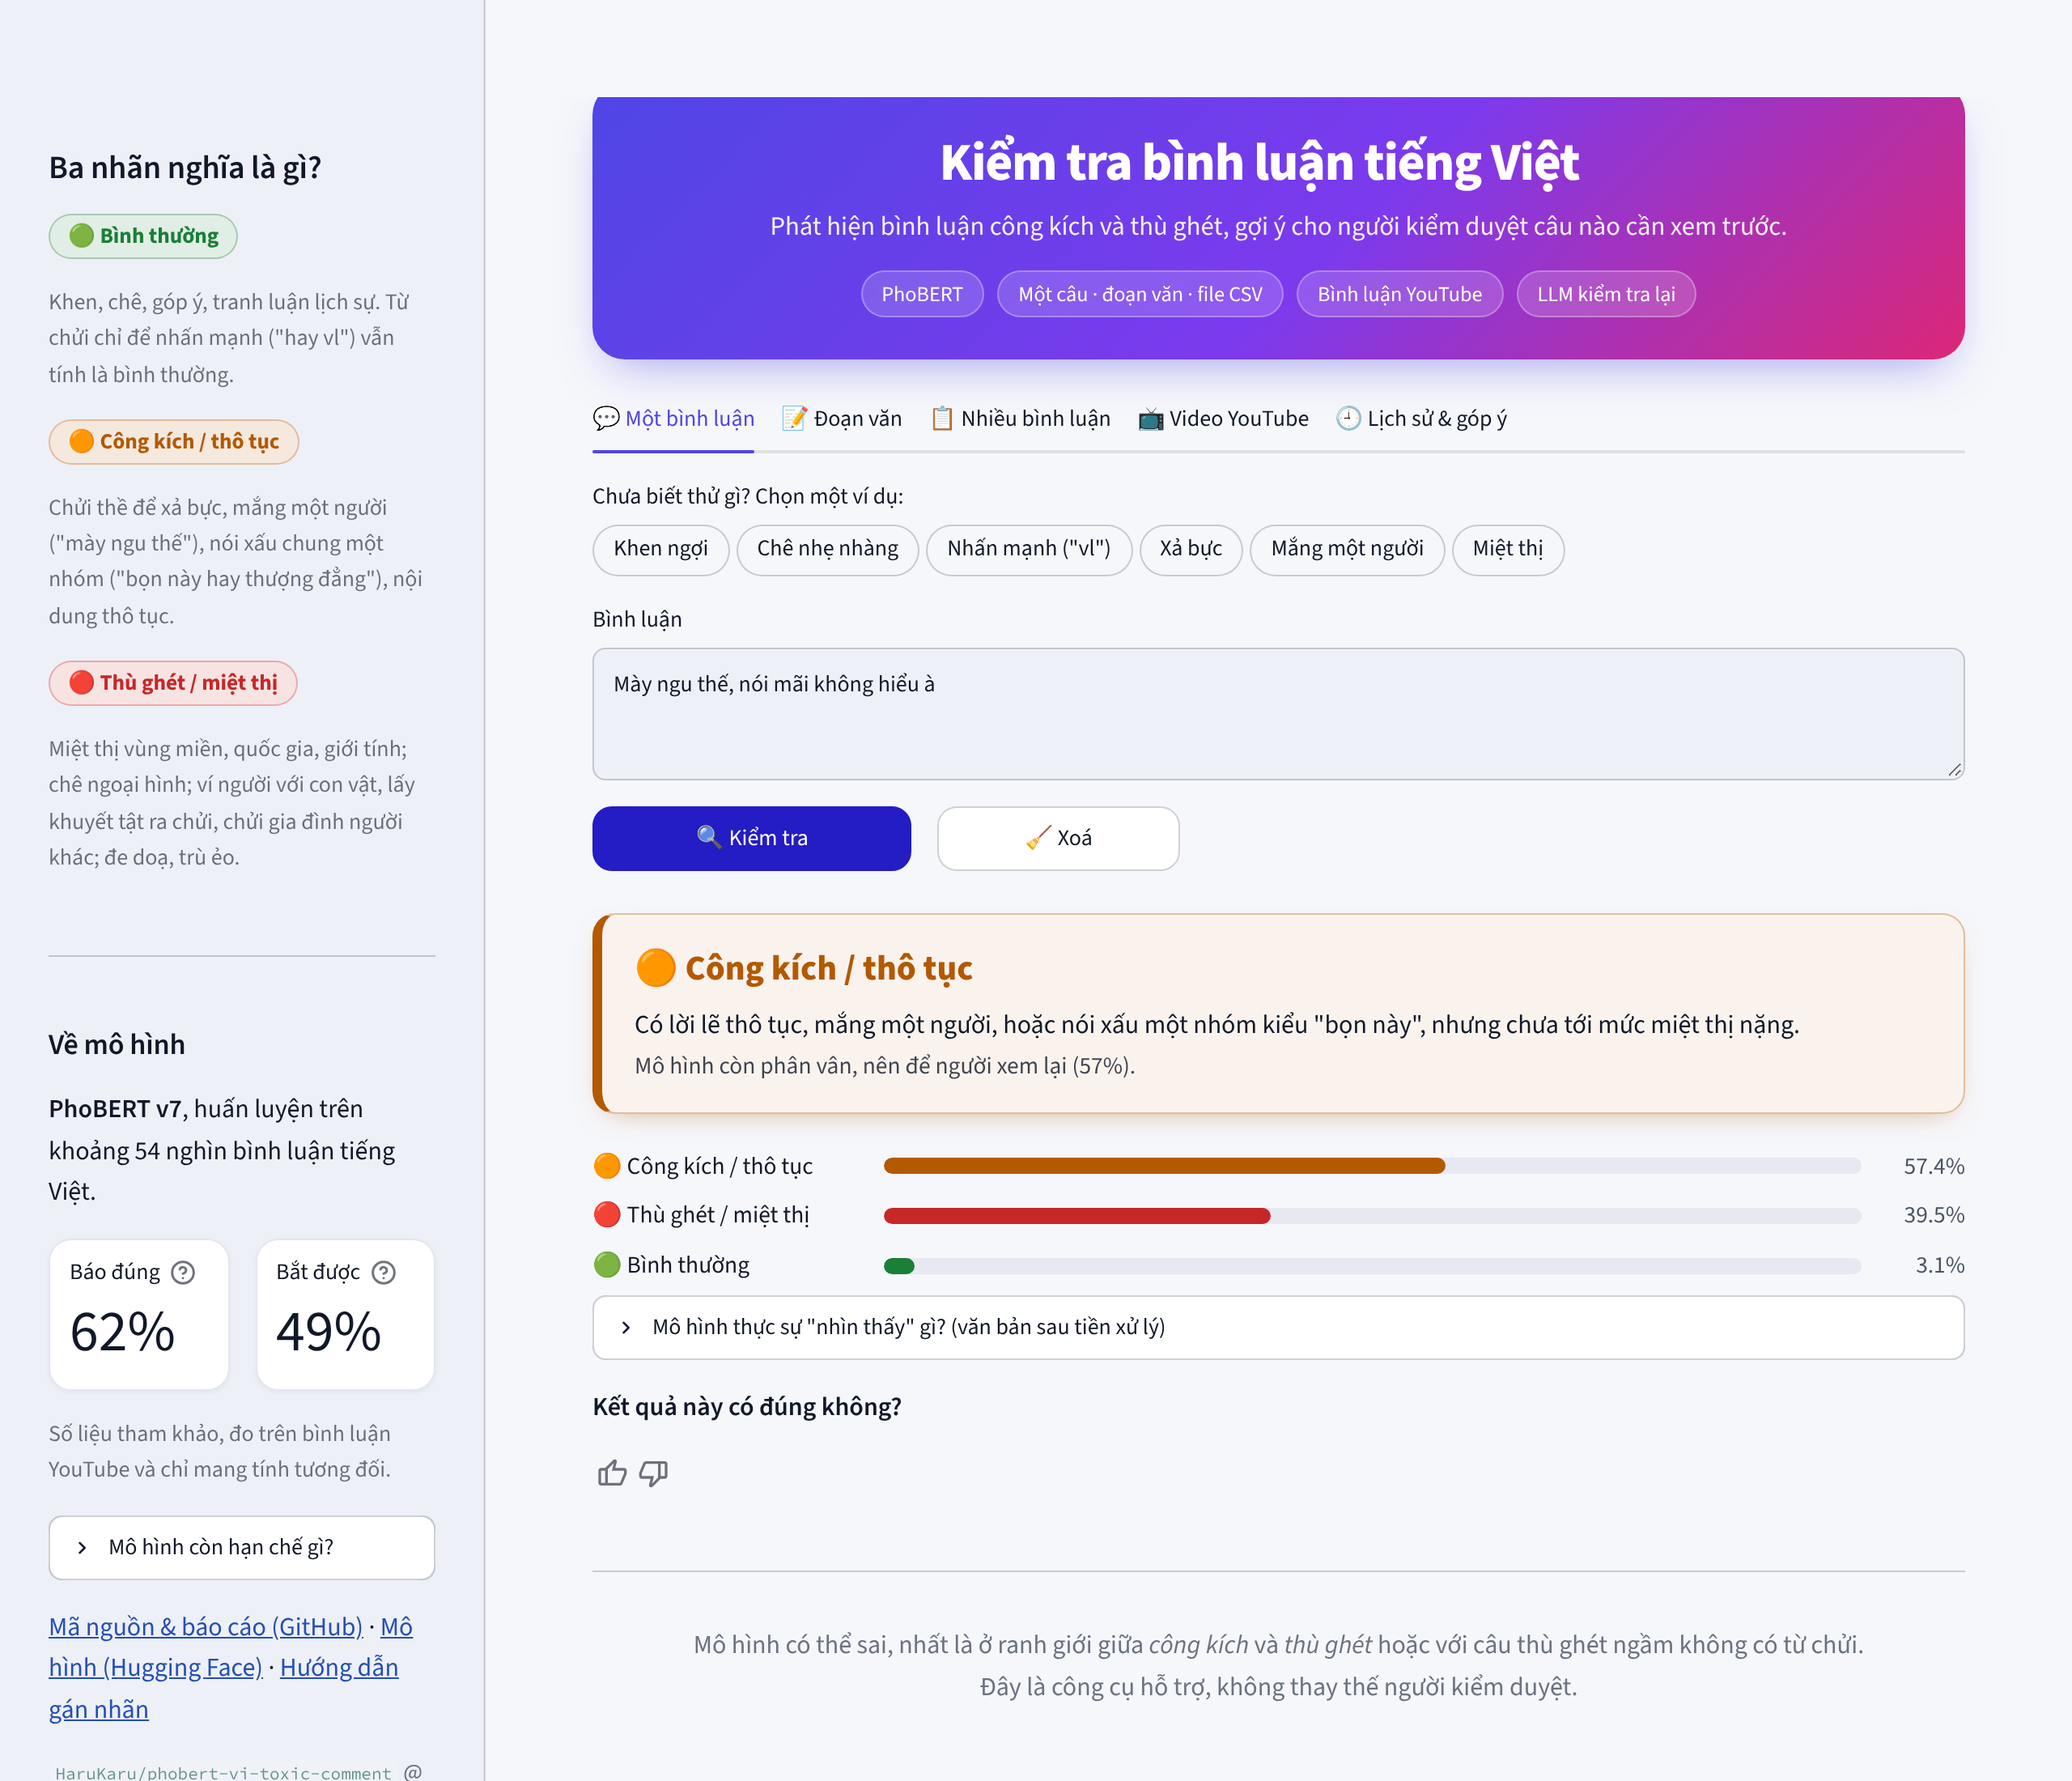
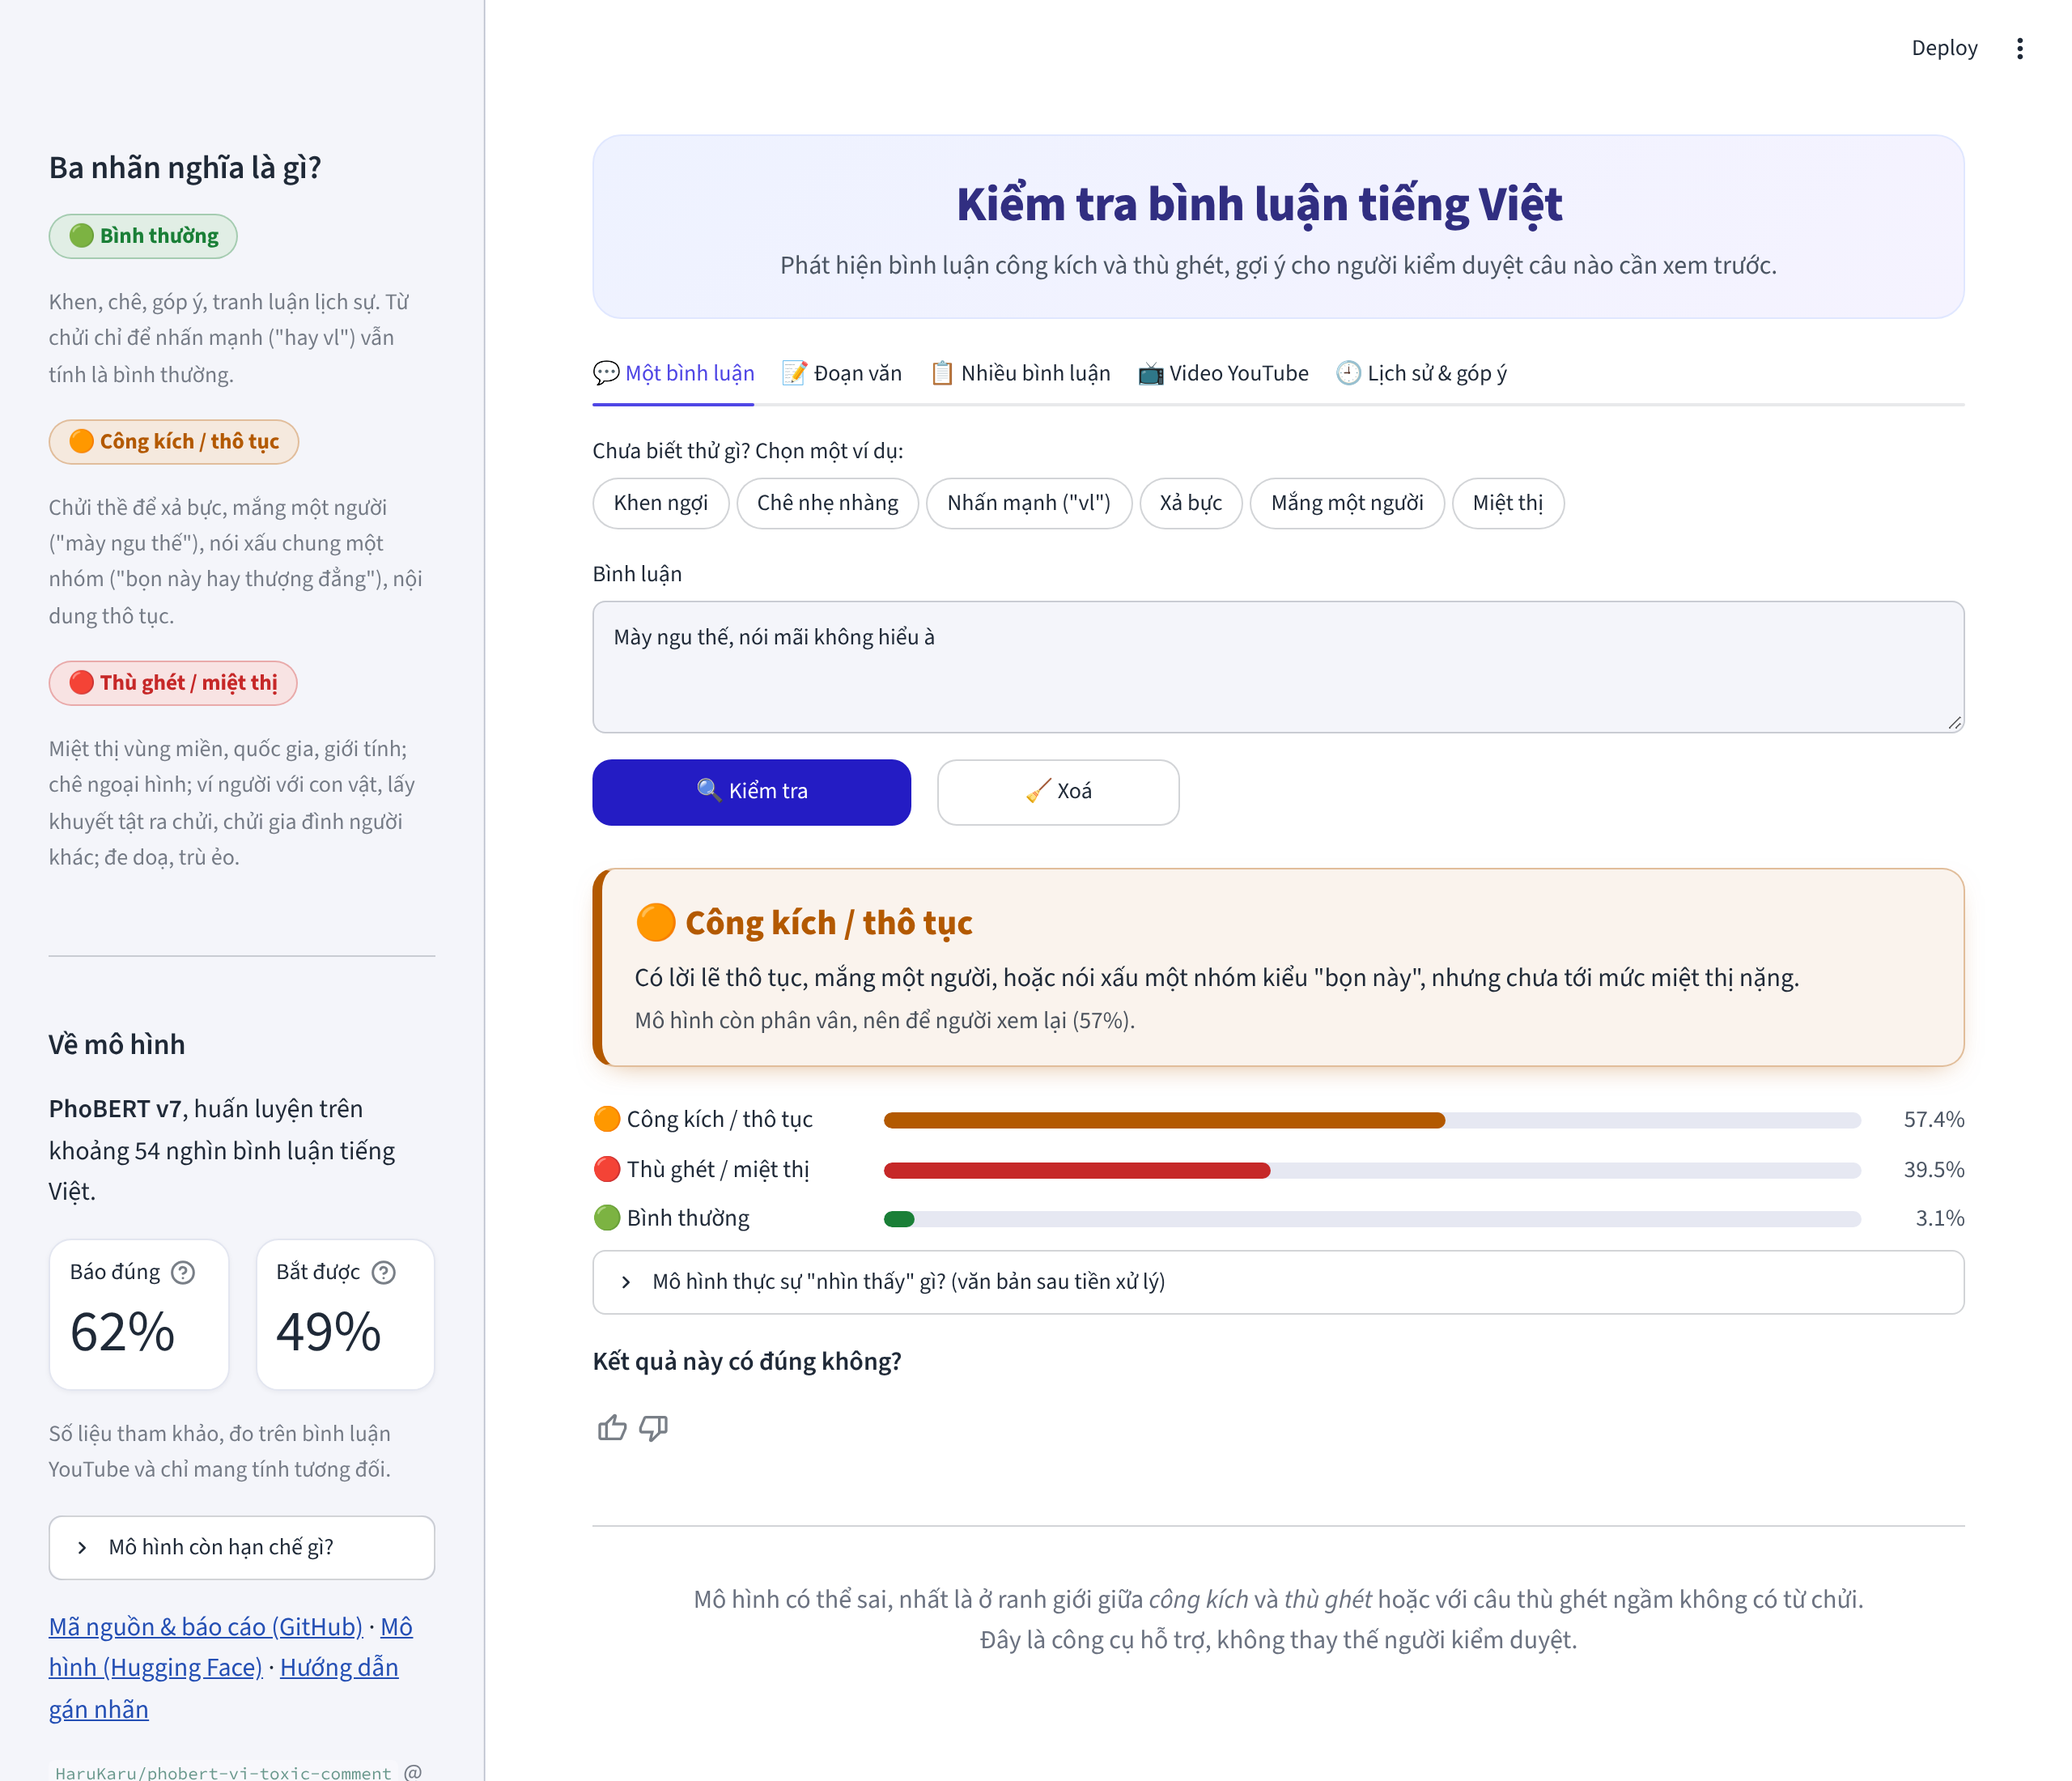
App: calmer title block without feature chips, white background, sidebar toggle back on phones
The header bar was hidden by CSS, which also hid the button that opens the
sidebar (label definitions) on small screens. Screenshots retaken.

Claude-Session: https://claude.ai/code/session_01G7kTj3moP6oo6me4WDWooK

diff --git a/streamlit_app/streamlit_app.py b/streamlit_app/streamlit_app.py
@@ -63,17 +63,18 @@ st.set_page_config(page_title="Kiểm tra bình luận tiếng Việt", page_ico
 st.markdown("""
 <style>
 /* layout */
-.block-container {max-width: 880px; padding-top: 2.2rem; padding-bottom: 3rem;}
-#MainMenu, footer, [data-testid="stToolbar"], [data-testid="stDecoration"] {visibility: hidden; height: 0;}
+.block-container {max-width: 880px; padding-top: 4.2rem; padding-bottom: 3rem;}
+footer {visibility: hidden;}
 [data-testid="stSidebar"] {border-right: 1px solid #e3e6f0;}
 /* hero */
-.hero {background: linear-gradient(135deg, #4f46e5 0%, #7c3aed 55%, #db2777 100%); color: #fff; border-radius: 20px;
-       padding: 30px 28px 26px; text-align: center; box-shadow: 0 12px 30px -12px rgba(79,70,229,.55); margin-bottom: 18px;}
-.hero h1 {color: #fff; font-size: 2.05rem; font-weight: 800; letter-spacing: -.02em; margin: 0 0 6px; padding: 0;}
-.hero p {margin: 0; opacity: .93; font-size: 1.02rem;}
-.hero .chips {margin-top: 14px; display: flex; gap: 8px; justify-content: center; flex-wrap: wrap;}
-.hero .chip {background: rgba(255,255,255,.16); border: 1px solid rgba(255,255,255,.28); border-radius: 999px;
-             padding: 3px 12px; font-size: .82rem; backdrop-filter: blur(4px);}
+.hero {background: linear-gradient(135deg, #eef2ff 0%, #f5f3ff 100%); border: 1px solid #e0e7ff;
+       border-radius: 18px; padding: 24px 24px 20px; text-align: center; margin-bottom: 14px;}
+.hero h1 {color: #312e81; font-size: 1.9rem; font-weight: 800; letter-spacing: -.01em; margin: 0 0 6px; padding: 0;}
+.hero p {margin: 0; color: #4b5563; font-size: 1rem;}
+@media (max-width: 640px) {
+  .hero {padding: 16px 14px;} .hero h1 {font-size: 1.4rem;} .hero p {font-size: .9rem;}
+  .score {grid-template-columns: 130px 1fr 48px;}
+}
 /* tabs as pills */
 [data-baseweb="tab-list"] {gap: 6px; background: #e9ebf5; padding: 5px; border-radius: 14px;}
 [data-baseweb="tab"] {border-radius: 10px; padding: 6px 14px; height: auto; background: transparent;}
@@ -198,9 +199,7 @@ with st.sidebar:
 # ---------------------------------------------------------------- header
 st.markdown(
     '<div class="hero"><h1>Kiểm tra bình luận tiếng Việt</h1>'
-    '<p>Phát hiện bình luận công kích và thù ghét, gợi ý cho người kiểm duyệt câu nào cần xem trước.</p>'
-    '<div class="chips"><span class="chip">PhoBERT</span><span class="chip">Một câu · đoạn văn · file CSV</span>'
-    '<span class="chip">Bình luận YouTube</span><span class="chip">LLM kiểm tra lại</span></div></div>',
+    '<p>Phát hiện bình luận công kích và thù ghét, gợi ý cho người kiểm duyệt câu nào cần xem trước.</p></div>',
     unsafe_allow_html=True)
 
 single, paragraph, batch, video, history = st.tabs(["💬 Một bình luận", "📝 Đoạn văn", "📋 Nhiều bình luận", "📺 Video YouTube", "🕘 Lịch sử & góp ý"])
